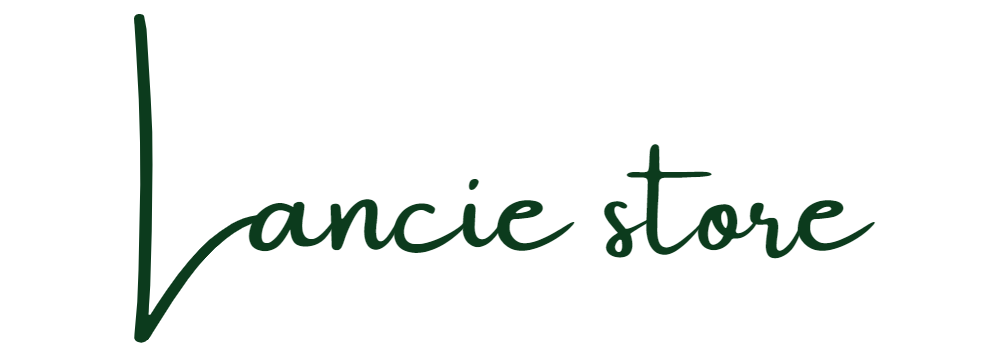
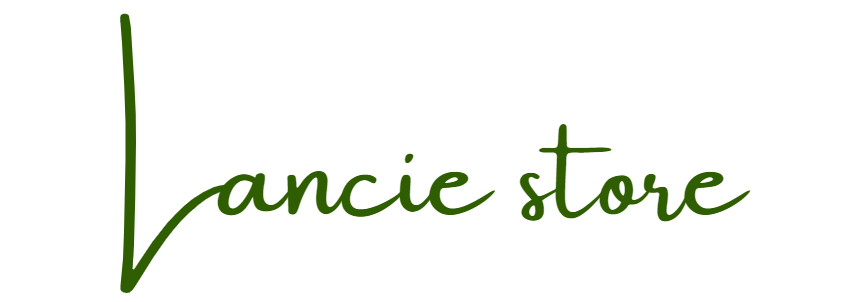
ok

Changed region(s): [[0.1249, 0.0298, 0.5618, 0.9834], [0.5618, 0.4172, 0.874, 0.745], [0.4682, 0.5066, 0.4994, 0.5364]]

diff --git a/index.html b/index.html
@@ -44,8 +44,11 @@
     <div class="container-fluid bg-white sticky-top">
         <div class="container">
             <nav class="navbar navbar-expand-lg bg-white navbar-light py-2 py-lg-0">
-                <a href="index.html" class="navbar-brand">
-                    <img class="img-fluid logo" src="img/image.png" alt="Logo">
+                <a href="index.html" class="navbar-brand a-logo">
+                    <div class="d-flex">
+                        <img class="logo" src="img/logo.png" alt="Logo">
+                        <img class="logo-col" src="img/image.png" alt="">
+                    </div>
                 </a>
                 <button type="button" class="navbar-toggler ms-auto me-0" data-bs-toggle="collapse" data-bs-target="#navbarCollapse">
                     <span class="navbar-toggler-icon"></span>
@@ -550,7 +553,7 @@
         // Function to auto click "Next" button every 1.5 seconds
         setInterval(function() {
             document.querySelector('#header-carousel .carousel-control-next').click();
-        }, 2000);
+        }, 3000);
 
         document.addEventListener('DOMContentLoaded', (event) => {
             var videoModal = document.getElementById('videoModal');

diff --git a/css/style.css b/css/style.css
@@ -62,25 +62,41 @@
     font-weight: 900;
 }
 
-.logo{
-    border-radius: 10px;
-    width: 100%;
-    height: max-content;
-    margin: 10px 0;
+.a-logo{
+    height: 74px;
 }
+.a-logo div{
+    height: 74px;
+}
+
+.logo{
+    width: 38%;
+    border-radius: 10px;
+    height: auto;
+    padding: 5px 0;
+}
+@media (max-width: 992px) {
+    .a-logo div{
+        height: 55.6px;
+    }
+}
+
 @media (max-width: 769px) {
     .logo {
-        width: 90%;
+        width: 38%;
     }
 }
 @media (max-width: 520px) {
     .logo {
-        width: 80%;
+        width: 38%;
     }
 }
 @media (max-width: 485px) {
     .logo {
-        width: 70%;
+        width: 38%;
+    }
+    .logo-col{
+        display: none;
     }
 }
 
